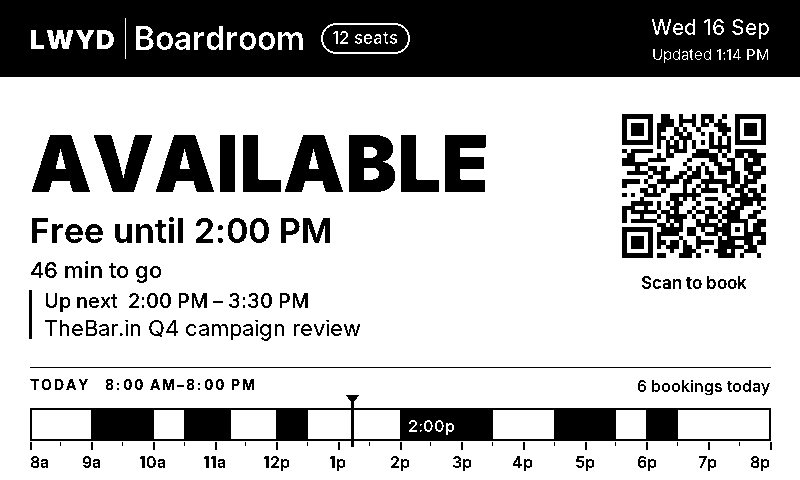
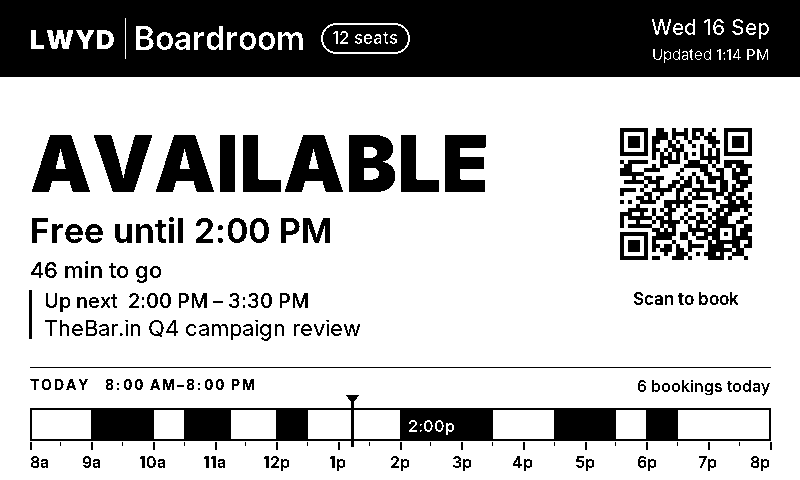
Also-free line keeps the QR; QR opens an Outlook new-meeting form addressed to the room

Changed region(s): [[0.75, 0.2188, 0.9688, 0.6562]]

diff --git a/huddle_displays/app/render.py b/huddle_displays/app/render.py
@@ -279,29 +279,11 @@ def draw_busy(img, draw, view: RoomView, redact: bool):
         draw.rectangle([CONTENT_L, bar_y, CONTENT_L + fill_w, bar_y + 12], fill=ink)
 
 
-def _until_label(until: Optional[datetime]) -> str:
-    return "rest of the day" if until is None else f"until {_t12(until)}"
+def _until_short(until: Optional[datetime]) -> str:
+    return "all day" if until is None else f"to {_t12_compact(until)}"
 
 
-OTHERS_W = 262           # width of the "also free now" column on the free screen
 OTHERS_MAX = 3
-
-
-def draw_others_column(img, draw, view: RoomView):
-    """Right-hand column on the free screen: where else can I go right now?"""
-    x0 = CONTENT_R - OTHERS_W
-    top, bottom = BODY_TOP + 30, BODY_BOTTOM - 22
-    draw.line([(x0 - 22, top), (x0 - 22, bottom)], fill=BLACK, width=2)
-    tracked(draw, (x0, top + 4), "ALSO FREE NOW", font("bold", 15), BLACK, tracking=2)
-    y = top + 38
-    for name, until in view.others[:OTHERS_MAX]:
-        size = fit_text(draw, name, "semibold", OTHERS_W, 26, 18)
-        draw.text((x0, y), name, font=font("semibold", size), fill=BLACK)
-        draw.text((x0, y + size + 4), _until_label(until), font=font("regular", 19), fill=BLACK)
-        y += size + 4 + 19 + 20
-    extra = len(view.others) - OTHERS_MAX
-    if extra > 0:
-        draw.text((x0, y - 6), f"+ {extra} more", font=font("medium", 17), fill=BLACK)
 
 
 # --------------------------------------------------------------------------
@@ -311,14 +293,9 @@ def draw_others_column(img, draw, view: RoomView):
 def draw_free(img, draw, view: RoomView, qr: Optional[Image.Image]):
     # optically centred in the body band rather than top-aligned, so the
     # free screen doesn't read as "content fell off the bottom"
-    y = BODY_TOP + 40
-    # Other free rooms are more useful at the door than a QR, so they take the column.
-    if view.others:
-        qr = None
-    qr_w = 152 if qr is not None else 0
+    y = BODY_TOP + (24 if view.others and view.next_event else 40)
+    qr_w = QR_BOX if qr is not None else 0
     text_r = CONTENT_R - (qr_w + 34 if qr is not None else 0)
-    if view.others:
-        text_r = CONTENT_R - OTHERS_W - 44
 
     size = fit_text(draw, "AVAILABLE", "black", text_r - CONTENT_L, 78, 48)
     draw.text((CONTENT_L, y), "AVAILABLE", font=font("black", size), fill=BLACK)
@@ -358,9 +335,18 @@ def draw_free(img, draw, view: RoomView, qr: Optional[Image.Image]):
             if lines:
                 draw.text((CONTENT_L + 14, y + 26), lines[0], font=f, fill=BLACK)
 
+    # Where else is free right now: one line under the booking info, left of the QR.
     if view.others:
-        draw_others_column(img, draw, view)
-    elif qr is not None:
+        f_o = font("regular", 20)
+        names = [f"{n} ({_until_short(u)})" for n, u in view.others[:OTHERS_MAX]]
+        while names:
+            line = "Also free  " + "  ·  ".join(names)
+            if _text_w(draw, line, f_o) <= text_r - CONTENT_L:
+                draw.text((CONTENT_L, BODY_BOTTOM - 30), line, font=f_o, fill=BLACK)
+                break
+            names.pop()
+
+    if qr is not None:
         qx = CONTENT_R - qr_w
         qy = BODY_TOP + 34
         img.paste(qr.resize((qr_w, qr_w), Image.NEAREST), (qx, qy))
@@ -374,7 +360,7 @@ def draw_free(img, draw, view: RoomView, qr: Optional[Image.Image]):
 
 def draw_closed(img, draw, view: RoomView, qr: Optional[Image.Image], opens: Optional[datetime]):
     y = BODY_TOP + 40
-    qr_w = 152 if qr is not None else 0
+    qr_w = QR_BOX if qr is not None else 0
     text_r = CONTENT_R - (qr_w + 34 if qr is not None else 0)
 
     size = fit_text(draw, "CLOSED", "black", text_r - CONTENT_L, 78, 48)
@@ -406,7 +392,7 @@ def draw_unknown(img, draw, view: RoomView, qr: Optional[Image.Image]):
     not the same as an empty one, and the screen has to say so.
     """
     y = BODY_TOP + 40
-    qr_w = 152 if qr is not None else 0
+    qr_w = QR_BOX if qr is not None else 0
     text_r = CONTENT_R - (qr_w + 34 if qr is not None else 0)
 
     size = fit_text(draw, "NO DATA", "black", text_r - CONTENT_L, 78, 48)
@@ -510,12 +496,22 @@ def draw_timeline(img, draw, view: RoomView, day_start: time, day_end: time, red
 # entry point
 # --------------------------------------------------------------------------
 
-def make_qr(url: str, box: int = 4) -> Image.Image:
-    qr = qrcode.QRCode(version=None, box_size=box, border=1,
+QR_BOX = 168
+
+
+def make_qr(url: str) -> Image.Image:
+    """QR scaled by a whole number of pixels per module, centred on a white
+    square. Fractional scaling smears module edges, which e-ink scanners hate."""
+    qr = qrcode.QRCode(version=None, box_size=1, border=1,
                        error_correction=qrcode.constants.ERROR_CORRECT_M)
     qr.add_data(url)
     qr.make(fit=True)
-    return qr.make_image(fill_color="black", back_color="white").convert("L")
+    base = qr.make_image(fill_color="black", back_color="white").convert("L")
+    k = max(1, QR_BOX // base.width)
+    scaled = base.resize((base.width * k, base.height * k), Image.NEAREST)
+    canvas = Image.new("L", (QR_BOX, QR_BOX), WHITE)
+    canvas.paste(scaled, ((QR_BOX - scaled.width) // 2, (QR_BOX - scaled.height) // 2))
+    return canvas
 
 
 def render(view: RoomView, *, logo: Optional[Image.Image] = None,

diff --git a/huddle_displays/app/config.py b/huddle_displays/app/config.py
@@ -5,12 +5,21 @@ from __future__ import annotations
 
 import json
 import os
+from urllib.parse import quote
 from dataclasses import dataclass, field
-from datetime import time
+from datetime import datetime, time, timedelta
 from typing import Optional
 from zoneinfo import ZoneInfo
 
 from .model import Room
+
+# Opens Outlook on the web with a new meeting already addressed to the room.
+# {start}/{end} are filled in at render time (next quarter hour, +30 min).
+OUTLOOK_COMPOSE = (
+    "https://outlook.office.com/calendar/0/deeplink/compose"
+    "?path=/calendar/action/compose&rru=addevent"
+    "&to={mailbox}&startdt={start}&enddt={end}"
+)
 
 DEFAULT_PATHS = ["/data/options.json", "options.json"]
 
@@ -43,7 +52,7 @@ class Settings:
     graph_client_id: str = ""
     graph_client_secret: str = ""
 
-    booking_url_template: str = "https://outlook.office.com/book/{mailbox}"
+    booking_url_template: str = OUTLOOK_COMPOSE
     logo_path: str = "/share/huddle/logo.png"
 
     @property
@@ -71,12 +80,21 @@ class Settings:
     def assignments(self) -> dict[str, str]:
         return {(r.panel_id or r.room_id): r.room_id for r in self.rooms}
 
-    def booking_url(self, room: Room) -> Optional[str]:
+    def booking_url(self, room: Room, now: Optional[datetime] = None) -> Optional[str]:
         if room.booking_url:
             return room.booking_url
         if not (self.booking_url_template and room.mailbox):
             return None
-        return self.booking_url_template.format(mailbox=room.mailbox, room_id=room.room_id)
+        # Next quarter hour, for templates that pre-fill a time slot.
+        now = now or datetime.now(self.tz)
+        start = now.replace(second=0, microsecond=0)
+        start += timedelta(minutes=(-start.minute) % 15)
+        end = start + timedelta(minutes=30)
+        fmt = "%Y-%m-%dT%H:%M"
+        return self.booking_url_template.format(
+            mailbox=quote(room.mailbox, safe="@"), room_id=room.room_id,
+            room_name=quote(room.name, safe=""),
+            start=start.strftime(fmt), end=end.strftime(fmt))
 
 
 def load(path: Optional[str] = None) -> Settings:

diff --git a/huddle_displays/app/main.py b/huddle_displays/app/main.py
@@ -193,7 +193,7 @@ def image_endpoint(key: str, fmt: str):
     img = render(
         view,
         logo=logo(),
-        booking_url=CFG.booking_url(view.room),
+        booking_url=CFG.booking_url(view.room, view.now),
         day_start=CFG.day_start,
         day_end=CFG.day_end,
         redact_private=CFG.redact_private,
